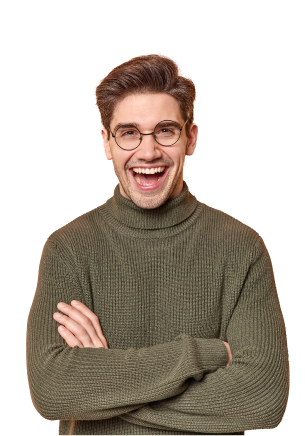
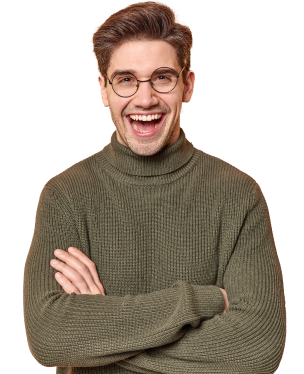
update

Changed region(s): [[0.0592, 0.0, 0.977, 1.0]]

diff --git a/assets/sass/layout/slider.scss b/assets/sass/layout/slider.scss
@@ -62,7 +62,7 @@
                     svg:first-child {
                         position: absolute;
                         right: 190px;
-                        transform: translateY(-200px);
+                        transform: translateY(-214px);
                     }
 
                     svg:last-child {
@@ -137,13 +137,13 @@
                         svg:first-child {
                             position: absolute;
                             right: calc(50% - 87px);
-                            transform: translateY(-415px);
+                            transform: translateY(-430px);
                         }
 
                         svg:last-child {
                             position: absolute;
                             left: calc(50% - 340px);
-                            transform: translateY(-100px);
+                            transform: translateY(-130px);
                         }
                     }
 

diff --git a/assets/css/style.css b/assets/css/style.css
@@ -1898,7 +1898,7 @@ Menu header: End
 .slider-block.style-one .slider-main .row > div:last-child .icon svg:first-child {
   position: absolute;
   right: 190px;
-  transform: translateY(-200px);
+  transform: translateY(-214px);
 }
 .slider-block.style-one .slider-main .row > div:last-child .icon svg:last-child {
   position: absolute;
@@ -1960,12 +1960,12 @@ Menu header: End
   .slider-block.style-one .slider-main .row > div:last-child .icon svg:first-child {
     position: absolute;
     right: calc(50% - 87px);
-    transform: translateY(-415px);
+    transform: translateY(-430px);
   }
   .slider-block.style-one .slider-main .row > div:last-child .icon svg:last-child {
     position: absolute;
     left: calc(50% - 340px);
-    transform: translateY(-100px);
+    transform: translateY(-130px);
   }
   .slider-block.style-one .slider-main .row > div:last-child .user-infor {
     top: calc(50% + 230px);

diff --git a/assets/css/layout/slider.css b/assets/css/layout/slider.css
@@ -54,7 +54,7 @@
 .slider-block.style-one .slider-main .row > div:last-child .icon svg:first-child {
   position: absolute;
   right: 190px;
-  transform: translateY(-200px);
+  transform: translateY(-214px);
 }
 .slider-block.style-one .slider-main .row > div:last-child .icon svg:last-child {
   position: absolute;
@@ -116,12 +116,12 @@
   .slider-block.style-one .slider-main .row > div:last-child .icon svg:first-child {
     position: absolute;
     right: calc(50% - 87px);
-    transform: translateY(-415px);
+    transform: translateY(-430px);
   }
   .slider-block.style-one .slider-main .row > div:last-child .icon svg:last-child {
     position: absolute;
     left: calc(50% - 340px);
-    transform: translateY(-100px);
+    transform: translateY(-130px);
   }
   .slider-block.style-one .slider-main .row > div:last-child .user-infor {
     top: calc(50% + 230px);
